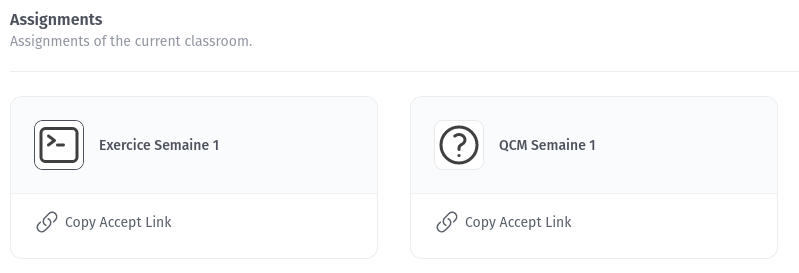
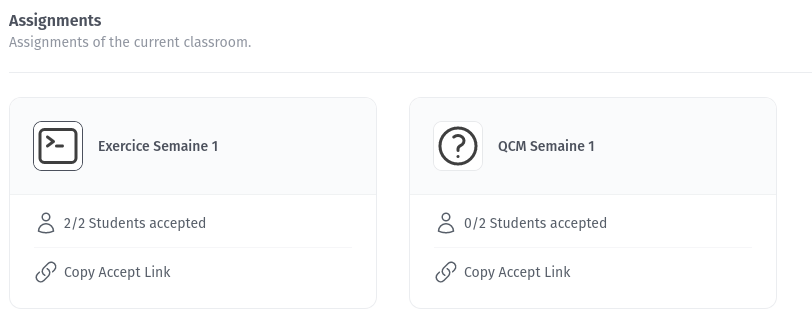
📝 : add submission count and average

diff --git a/src/main/docs/user-documentation/teacher/03-classroom-page.md b/src/main/docs/user-documentation/teacher/03-classroom-page.md
@@ -47,7 +47,7 @@ Each card show the _Student_ GitLab avatar, the _Student_ GitLab user name, and 
 
 This section lists all the _Assignments_ of the _Classroom_.
 
-Each card show the _Assignment_ type (Exercise or Quiz) with an icon, the _Assignment_ name, and the _Accept Link_ button.
+Each card show the _Assignment_ type (Exercise or Quiz) with an icon, the _Assignment_ name, the number of _Students_ who already accepted the _Assignment_, and the _Accept Link_ button.
 
 <figure markdown>
   ![The Assignment list for a Classroom](03-assignment-list.png){ style="border: solid 1px black" }

diff --git a/src/main/docs/user-documentation/teacher/05-view-assignment-results.md b/src/main/docs/user-documentation/teacher/05-view-assignment-results.md
@@ -13,9 +13,11 @@ The views are similar for the 2 types of _Assignments_, _Exercise_ or _Quiz_.
 
 The view shows:
 
+* the total count of _Students_ that accepted the _Assignment_
 * the total count of submissions by the _Students_
+* the average grade of the _Assignment_
 * for each _Student_:
-    * the score of the _Student_ for the assignment
+    * the grade of the _Student_ for the assignment
     * the submission date of the assignment
     * the link to the GitLab project
 
